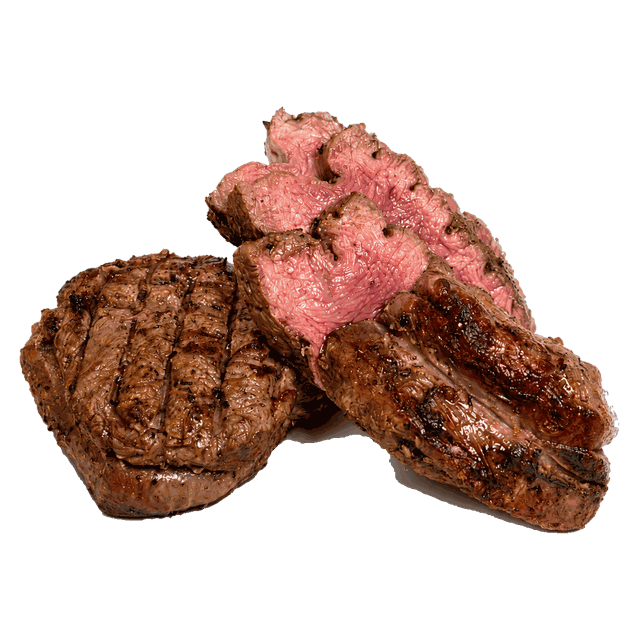
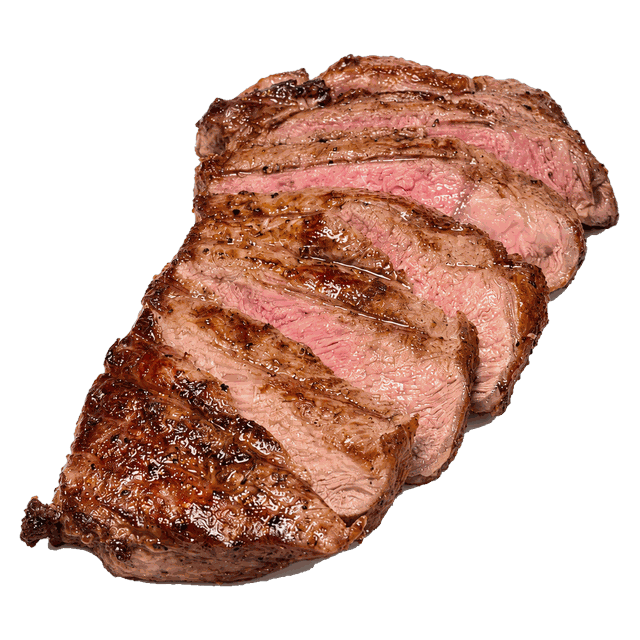
Три фото стояли не на своїх позиціях
Ланцюжком, за словами власника:

- фото з «Віденської» насправді показує мисливську
- фото з «Стейка Рібай» — це філе-міньйон
- фото зі «Стейка Нью-Йорк» — це рібай

Прив'язки зсунуто, файли перейменовано під нових власників:
kovb-videnska.png → kovb-myslyvska.png, ribay.png → file-minyon.png,
new-york.png → ribay.png. Перейменування саме в такому порядку,
інакше ribay.png перезаписав би сам себе.

Віденська і Нью-Йорк лишилися із заглушкою — їхніх знімків у нас
немає. Позицій без фото як було вісім, так і лишилось, але тепер
кожне фото показує те, що підписано.

Файлів і посилань порівну, битих картинок у жодній категорії немає.

diff --git a/index.html b/index.html
@@ -792,7 +792,7 @@ const PHOTO={
  'Овочі/Перець':'perets.png',
  'Стейк на кістці':'steyk-kistka.png',
  'Стейк з відбивної':'steyk-vidbyvna.png',
- 'Ковбаски/Віденська':'kovb-videnska.png',
+ 'Ковбаски/Мисливська':'kovb-myslyvska.png',
  'Ковбаски/Свиняча':'kovb-svynyacha.png',
  'Ковбаски/Куряча':'kovb-kuryacha.png',
  'Ковбаски/Куряча з сиром':'kovb-kur-syr.png',
@@ -803,7 +803,7 @@ const PHOTO={
  'Курка/Люля кебаб':'kur-lyulya.png',
  'Курка/Шашлик з індика':'shashlyk-indyk.png',
  'Баранина/Люля кебаб':'baranyna-lyulya.png',
- 'Яловичина/Стейк Нью-Йорк':'new-york.png',
+ 'Яловичина/Філе-міньйон':'file-minyon.png',
  'Свинина/Реберця':'rebertsya.png',
  'Свинина/Грудинка':'hrudynka.png',
  'Стейк з ошийка':'steyk-oshyyok.png',
